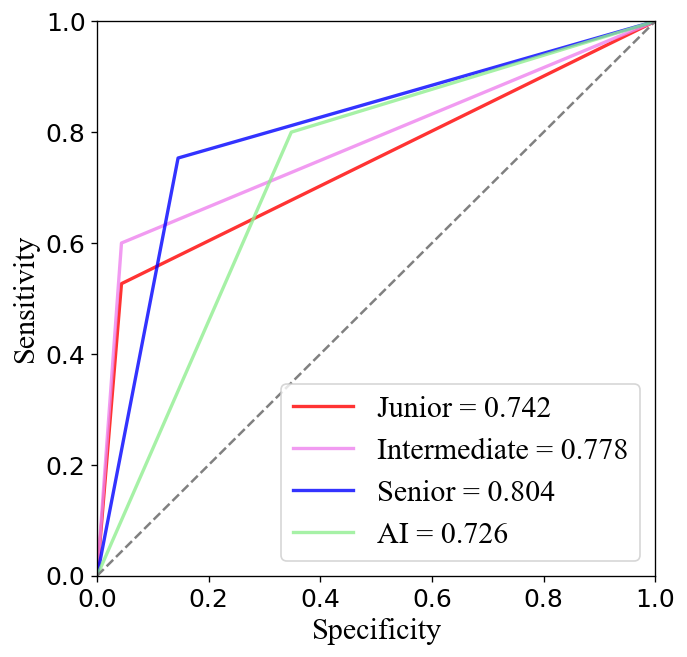
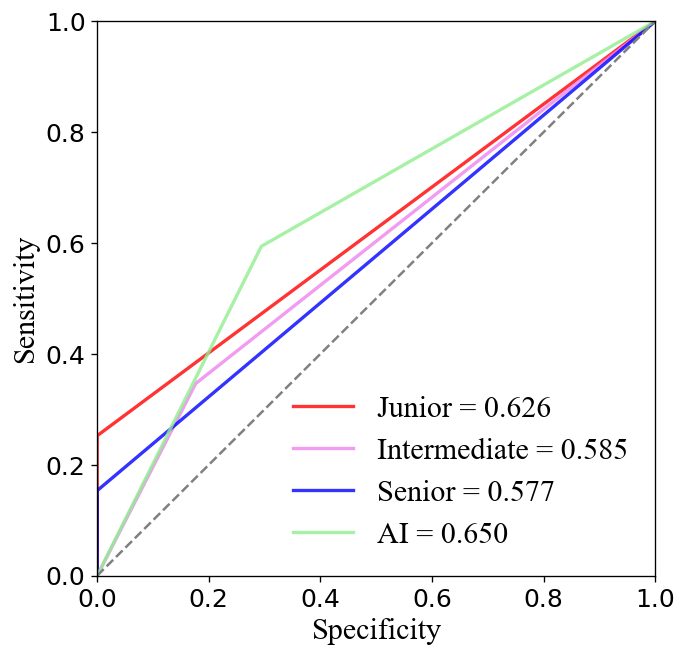
feat: roc

diff --git a/spider/spider-peewee/roc/roc4.py b/spider/spider-peewee/roc/roc4.py
@@ -5,9 +5,9 @@ import numpy as np
 from scipy.interpolate import make_interp_spline
 
 r1 = pd.read_csv(
-    r"./副本脂肪肝统计数据.csv",
+    r"./有无肝纤维化统计.csv",
     header=None,
-    names=['初级医师诊断', '中级医师诊断', '高级医师诊断', 'AI诊断', '病理']
+    names=['AI', '高级医师', '中级医师', '初级', '病理']
 )
 
 
@@ -37,7 +37,7 @@ def ks(y, s1, s2, s3, s4):
     plt.plot(fpr3, tpr3, color="blue", lw=lw, alpha=0.8, label='Senior = %0.3f' % roc_auc3)
     plt.plot(fpr4, tpr4, color="lightgreen", lw=lw, alpha=0.8, label='AI = %0.3f' % roc_auc4)
 
-    plt.legend(loc='lower right', prop=Font)
+    plt.legend(loc='lower right', prop=Font, frameon=False)
     plt.plot([0, 1], [0, 1], '--', color='grey')
     plt.xlim([0, 1])
     plt.ylim([0, 1])
@@ -55,10 +55,10 @@ def ks(y, s1, s2, s3, s4):
 
 
 yb = r1.病理[1:]
-score1 = r1.初级医师诊断[1:]
-score2 = r1.中级医师诊断[1:]
-score3 = r1.高级医师诊断[1:]
-score4 = r1.AI诊断[1:]
+score1 = r1.初级[1:]
+score2 = r1.中级医师[1:]
+score3 = r1.高级医师[1:]
+score4 = r1.AI[1:]
 
 yb = list(map(int, yb))
 score1 = list(map(int, score1))
